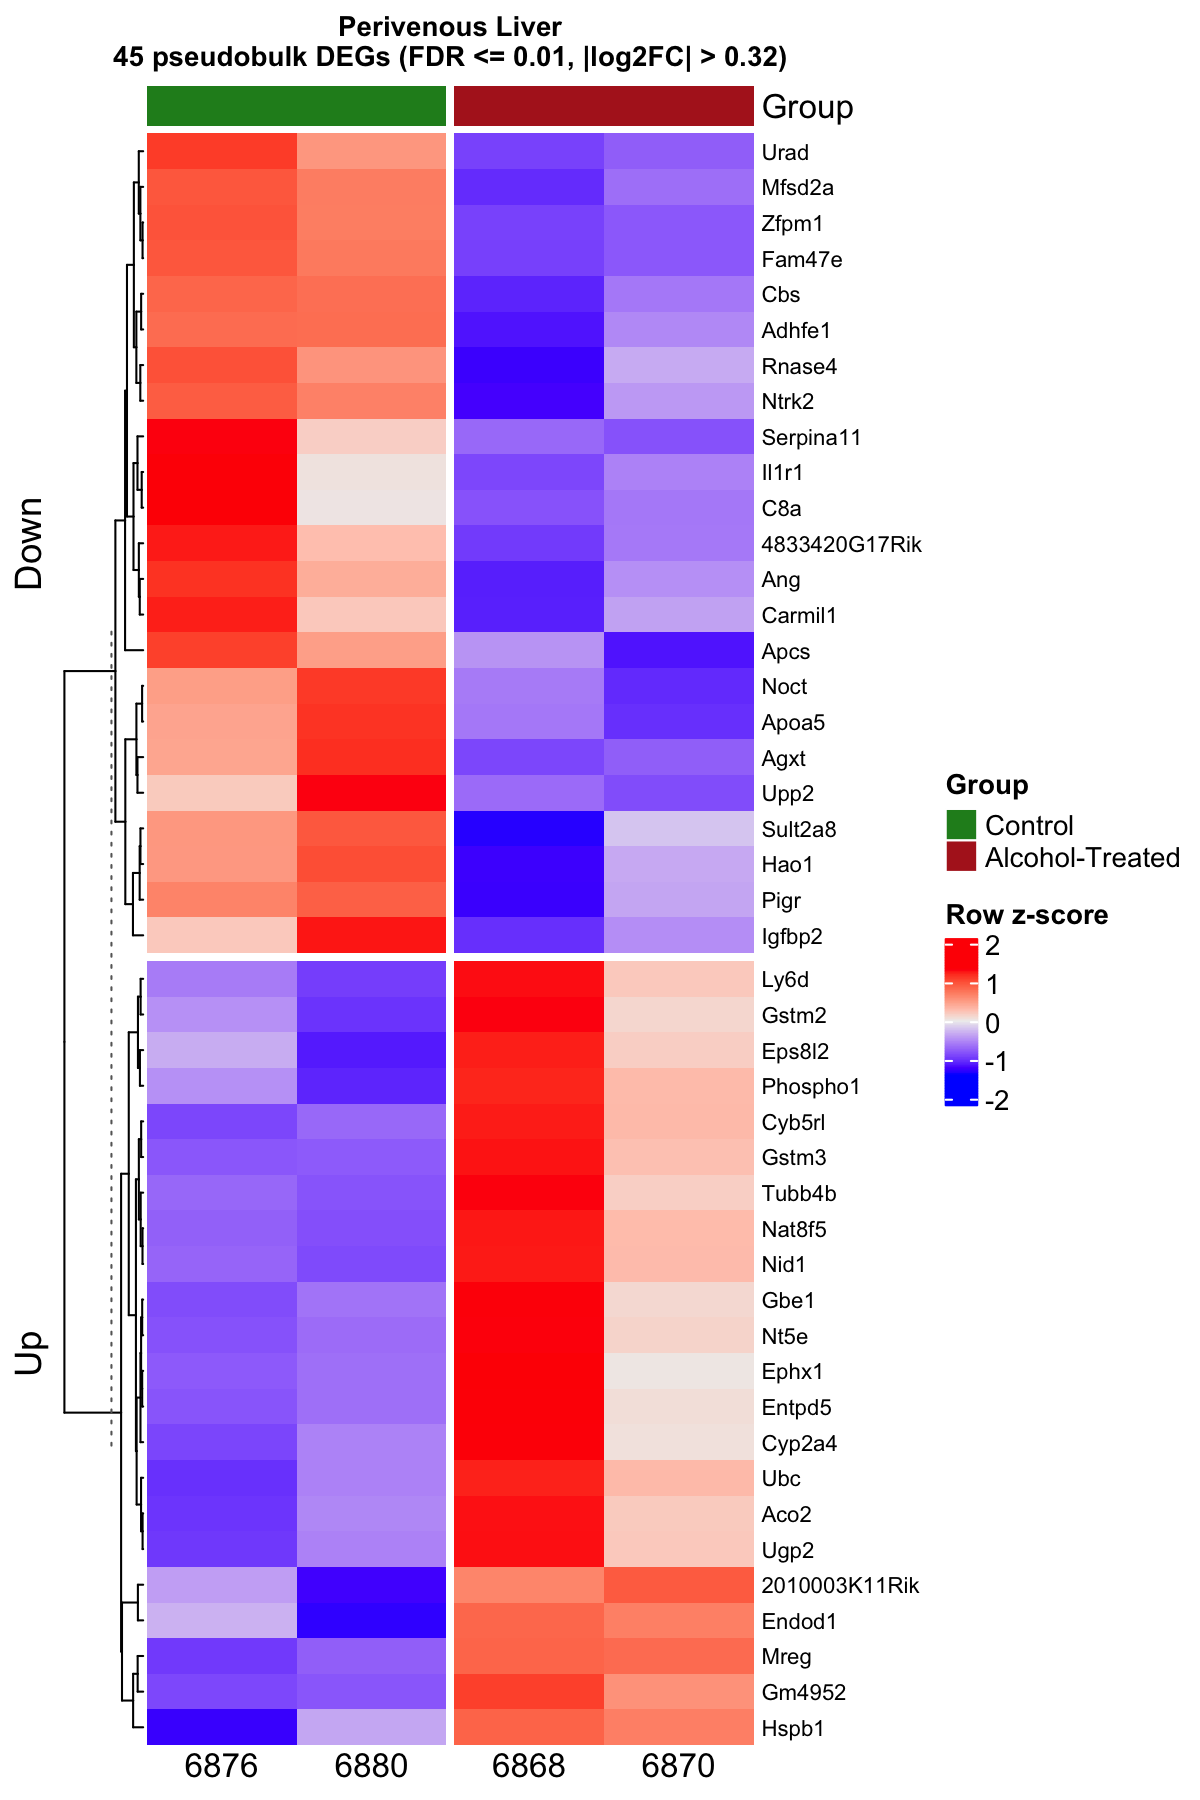
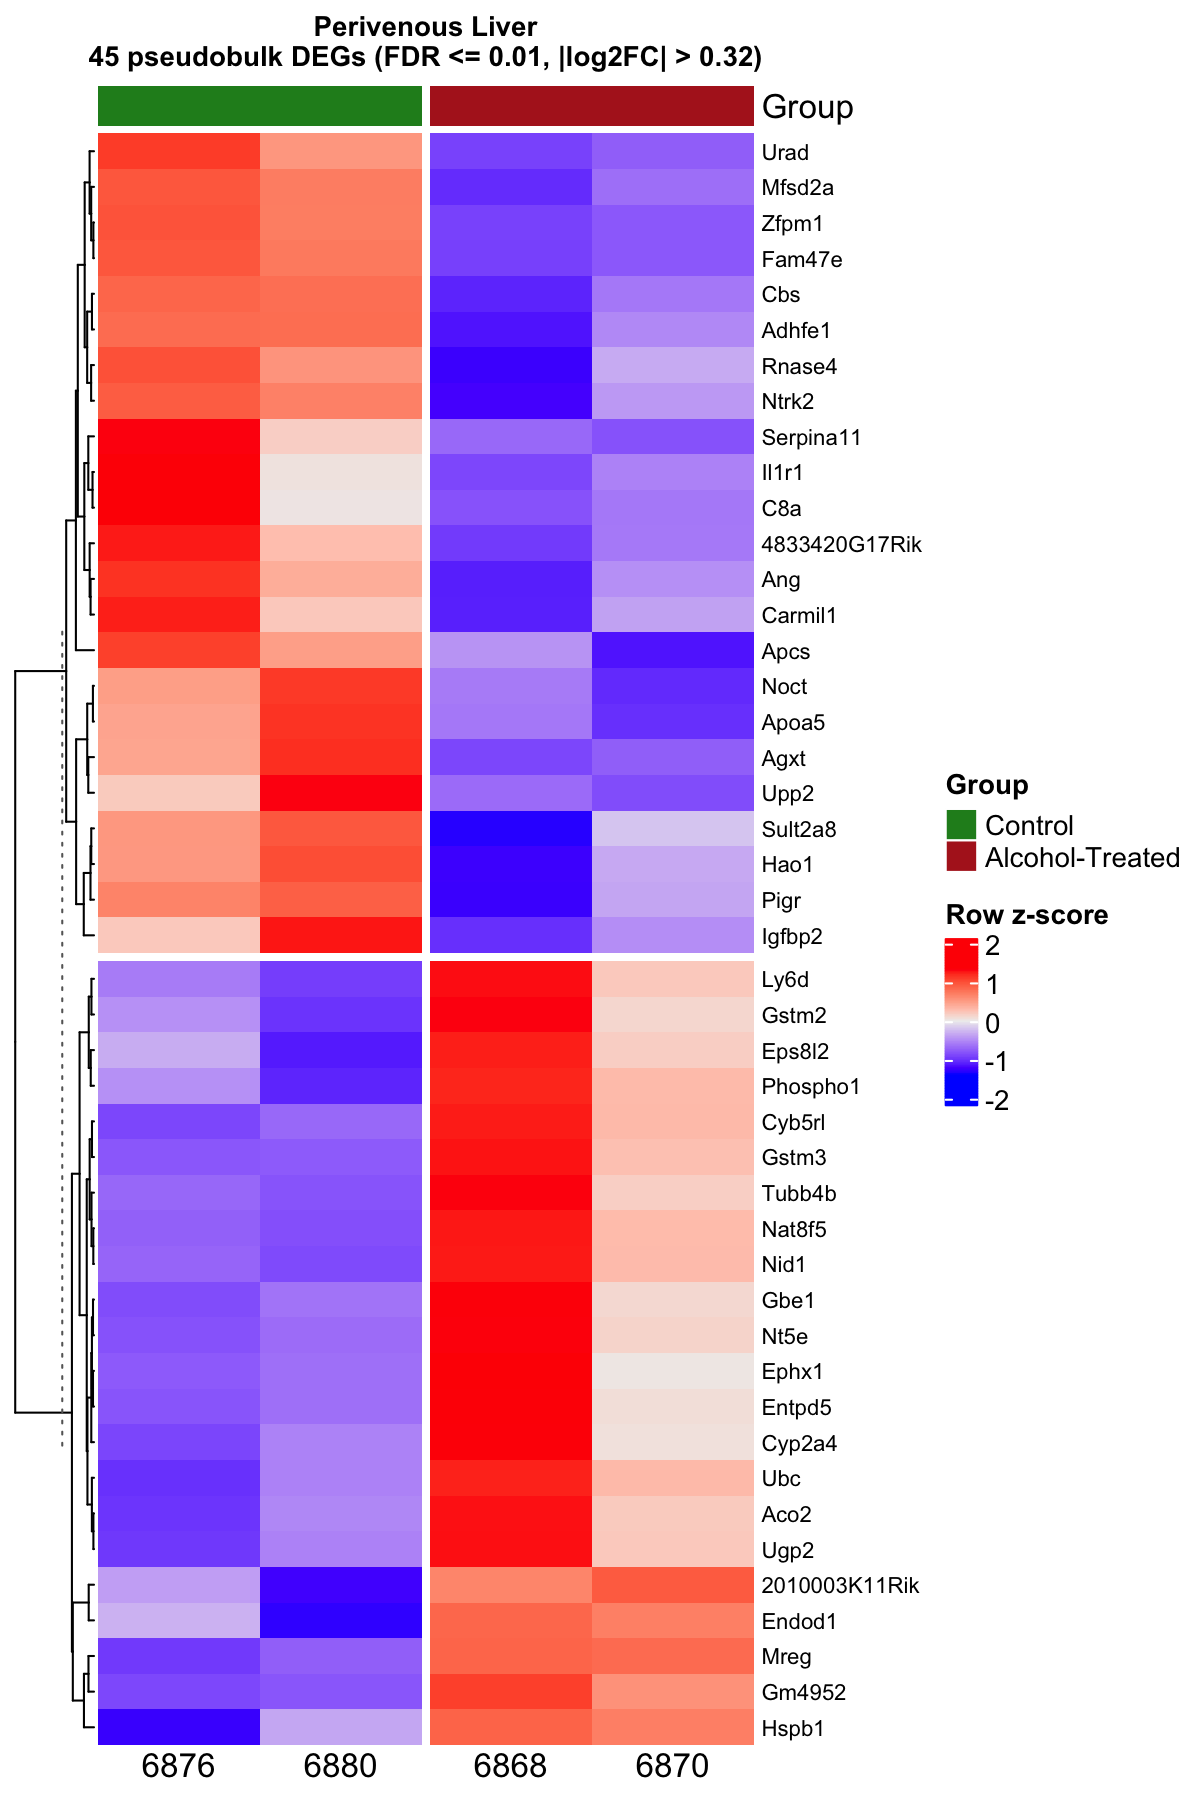
Remove up and down row labels from heatmaps and draw them for ROI types with more than 5 DEGs

diff --git a/README.md b/README.md
@@ -86,7 +86,7 @@ R/05_label_swap_check.R    reruns the primary model with the incorrect animal pa
 R/06_filter_sensitivity.R  tests the optional mean count filter
 ```
 
-Each run saves its outputs to `results/`. The `dge_tables/` folder holds one table per ROI type and model, and `dge_summary.csv` summarizes them. The `volcano/`, `heatmaps/`, and `qc/` folders hold the figures. A heatmap is only drawn for ROI types with more than 10 pseudobulk DEGs, which are genes with FDR ≤ 0.01 and an absolute log2 fold change above 0.32. The `ranked_lists/` folder holds ranked gene lists that can be used for GSEA. The label swap and filter checks are saved as `label_swap_check.csv` and `filter_sensitivity.csv`, and the R session details are saved in `sessionInfo.txt`.
+Each run saves its outputs to `results/`. The `dge_tables/` folder holds one table per ROI type and model, and `dge_summary.csv` summarizes them. The `volcano/`, `heatmaps/`, and `qc/` folders hold the figures. A heatmap is only drawn for ROI types with more than 5 pseudobulk DEGs, which are genes with FDR ≤ 0.01 and an absolute log2 fold change above 0.32. The `ranked_lists/` folder holds ranked gene lists that can be used for GSEA. The label swap and filter checks are saved as `label_swap_check.csv` and `filter_sensitivity.csv`, and the R session details are saved in `sessionInfo.txt`.
 
 ## Interpreting the Results
 
